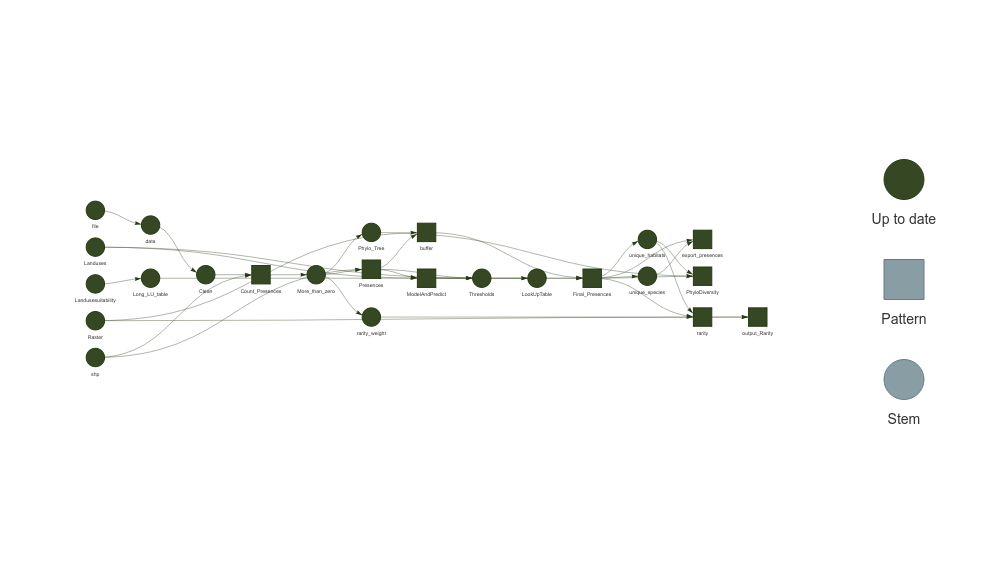
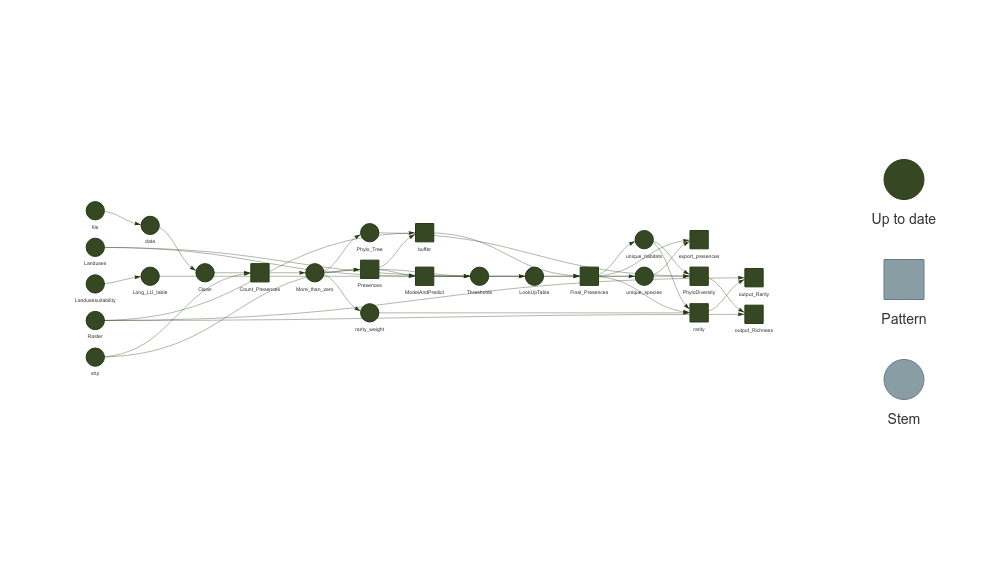
Export richness is ready

Changed region(s): [[0.124, 0.3673, 0.775, 0.5816], [0.124, 0.5816, 0.155, 0.6122], [0.124, 0.3673, 0.155, 0.398]]

diff --git a/README.md b/README.md
@@ -559,12 +559,12 @@ knitr::kable(Habitats[1:9,], caption = "Predicted habitat suitability scores acr
 |:--------------|----------:|:---------------------|
 | OpenDryRich   | 1.0000000 | Anthyllis vulneraria |
 | OpenDryPoor   | 1.0000000 | Anthyllis vulneraria |
-| ForestWetRich | 0.7027417 | Anthyllis vulneraria |
-| OpenWetPoor   | 0.7027417 | Anthyllis vulneraria |
-| OpenWetRich   | 0.7027417 | Anthyllis vulneraria |
-| Exclude       | 0.5133834 | Anthyllis vulneraria |
-| ForestDryRich | 0.3359056 | Anthyllis vulneraria |
-| ForestDryPoor | 0.2320890 | Anthyllis vulneraria |
+| ForestWetRich | 0.6838430 | Anthyllis vulneraria |
+| OpenWetRich   | 0.6838430 | Anthyllis vulneraria |
+| OpenWetPoor   | 0.6838430 | Anthyllis vulneraria |
+| Exclude       | 0.5108840 | Anthyllis vulneraria |
+| ForestDryRich | 0.3207105 | Anthyllis vulneraria |
+| ForestDryPoor | 0.2241332 | Anthyllis vulneraria |
 | Exclude       | 0.6335459 | Genista tinctoria    |
 
 <span id="tab:tablespeciespred"></span>Table 4.7: Predicted habitat
@@ -620,12 +620,12 @@ Table <a href="#tab:thresholdtables">4.8</a>.
 
 | species              | Thres_99 | Thres_95 | Thres_90 |
 |:---------------------|---------:|---------:|---------:|
-| Anthyllis vulneraria |    0.513 |    0.513 |    0.513 |
+| Anthyllis vulneraria |    0.511 |    0.511 |    0.511 |
 | Genista tinctoria    |    0.634 |    0.634 |    0.634 |
 | Lathyrus japonicus   |    0.407 |    0.407 |    0.407 |
 | Lathyrus latifolius  |    0.634 |    0.634 |    0.634 |
-| Vicia sativa         |    0.404 |    0.404 |    0.404 |
-| Vicia sepium         |    0.290 |    0.290 |    0.290 |
+| Vicia sativa         |    0.405 |    0.405 |    0.405 |
+| Vicia sepium         |    0.294 |    0.294 |    0.294 |
 | Vicia villosa        |    0.633 |    0.633 |    0.633 |
 
 <span id="tab:thresholdtables"></span>Table 4.8: Threshold based on
@@ -652,8 +652,8 @@ are not.
 | Anthyllis vulneraria | OpenDryRich   |    1 |
 | Anthyllis vulneraria | OpenDryPoor   |    1 |
 | Anthyllis vulneraria | ForestWetRich |    1 |
-| Anthyllis vulneraria | OpenWetPoor   |    1 |
 | Anthyllis vulneraria | OpenWetRich   |    1 |
+| Anthyllis vulneraria | OpenWetPoor   |    1 |
 | Lathyrus japonicus   | OpenDryPoor   |    1 |
 | Vicia sativa         | OpenDryPoor   |    1 |
 | Vicia sativa         | OpenDryRich   |    1 |
@@ -664,8 +664,8 @@ are not.
 | Vicia sepium         | ForestWetRich |    1 |
 | Vicia sepium         | ForestDryRich |    1 |
 | Vicia sepium         | OpenDryPoor   |    1 |
-| Vicia sepium         | OpenWetRich   |    1 |
 | Vicia sepium         | OpenWetPoor   |    1 |
+| Vicia sepium         | OpenWetRich   |    1 |
 | Vicia sepium         | OpenDryRich   |    1 |
 
 <span id="tab:lookuptab"></span>Table 4.9: dummy variable that shows
@@ -802,160 +802,173 @@ run_workflow(
   rasterLU = Raster,
   LanduseSuitability = HabSut
 )
-#> ▶ dispatched target Raster
-#> ▶ dispatched target Landuses
-#> ● completed target Landuses [7.174 seconds]
 #> ▶ dispatched target shp
-#> ● completed target shp [0 seconds]
+#> ▶ dispatched target Raster
+#> ● completed target shp [8.94 seconds]
+#> ▶ dispatched target Landuses
+#> ● completed target Landuses [0 seconds]
 #> ▶ dispatched target file
 #> ● completed target file [0 seconds]
 #> ▶ dispatched target data
-#> ● completed target Raster [7.395 seconds]
+#> ● completed target Raster [8.884 seconds]
 #> ▶ dispatched target Landusesuitability
 #> ● completed target Landusesuitability [0 seconds]
 #> ▶ dispatched target Long_LU_table
-#> ● completed target Long_LU_table [0.154 seconds]
-#> ● completed target data [0.604 seconds]
+#> ● completed target Long_LU_table [0.113 seconds]
+#> ● completed target data [0.665 seconds]
 #> ▶ dispatched target Clean
-#> ● completed target Clean [1.339 seconds]
+#> ● completed target Clean [1.531 seconds]
 #> ▶ dispatched branch Count_Presences_33538e94b3809372
 #> ▶ dispatched branch Count_Presences_52d72a5ad405e933
-#> ● completed branch Count_Presences_33538e94b3809372 [0.155 seconds]
+#> ● completed branch Count_Presences_33538e94b3809372 [0.229 seconds]
 #> ▶ dispatched branch Count_Presences_e70f77d9439a4770
-#> ● completed branch Count_Presences_e70f77d9439a4770 [0.117 seconds]
+#> ● completed branch Count_Presences_e70f77d9439a4770 [0.855 seconds]
 #> ▶ dispatched branch Count_Presences_dea4ef8633a449a1
-#> ● completed branch Count_Presences_52d72a5ad405e933 [0.341 seconds]
+#> ● completed branch Count_Presences_52d72a5ad405e933 [1.168 seconds]
 #> ▶ dispatched branch Count_Presences_69210fc440d13855
+#> ● completed branch Count_Presences_69210fc440d13855 [0.34 seconds]
 #> ▶ dispatched branch Count_Presences_a61be030e01ebaf5
-#> ● completed branch Count_Presences_dea4ef8633a449a1 [0.057 seconds]
-#> ● completed branch Count_Presences_a61be030e01ebaf5 [0.038 seconds]
+#> ● completed branch Count_Presences_dea4ef8633a449a1 [0.398 seconds]
 #> ▶ dispatched branch Count_Presences_974105e269324d3e
-#> ● completed branch Count_Presences_974105e269324d3e [0.04 seconds]
+#> ● completed branch Count_Presences_974105e269324d3e [0.121 seconds]
 #> ▶ dispatched branch Count_Presences_37d1f8d5f74d852c
-#> ● completed branch Count_Presences_69210fc440d13855 [0.142 seconds]
-#> ● completed branch Count_Presences_37d1f8d5f74d852c [0.036 seconds]
+#> ● completed branch Count_Presences_a61be030e01ebaf5 [0.14 seconds]
+#> ● completed branch Count_Presences_37d1f8d5f74d852c [0.623 seconds]
 #> ● completed pattern Count_Presences
 #> ▶ dispatched target More_than_zero
 #> ● completed target More_than_zero [0.002 seconds]
 #> ▶ dispatched branch Presences_c112b37cd15959d6
 #> ▶ dispatched branch Presences_af64bac105a08467
-#> ● completed branch Presences_af64bac105a08467 [0.508 seconds]
-#> ▶ dispatched branch buffer_0e19b8cb545404d2
-#> ● completed branch buffer_0e19b8cb545404d2 [0.138 seconds]
-#> ▶ dispatched branch Presences_daf8d6353bc80f0c
-#> ● completed branch Presences_c112b37cd15959d6 [0.879 seconds]
-#> ▶ dispatched branch buffer_626a53b08dfe709d
-#> ● completed branch buffer_626a53b08dfe709d [0.281 seconds]
-#> ▶ dispatched branch Presences_310adeccf6b44725
-#> ● completed branch Presences_daf8d6353bc80f0c [0.91 seconds]
-#> ▶ dispatched branch buffer_edb09c8ec5c9a988
-#> ● completed branch Presences_310adeccf6b44725 [0.449 seconds]
-#> ▶ dispatched branch buffer_b226446ac3154351
-#> ● completed branch buffer_b226446ac3154351 [0.219 seconds]
-#> ▶ dispatched branch Presences_e65f4227e8299cc4
-#> ● completed branch buffer_edb09c8ec5c9a988 [0.397 seconds]
-#> ▶ dispatched branch Presences_d4b9dc68293bd5b2
-#> ● completed branch Presences_e65f4227e8299cc4 [0.689 seconds]
-#> ▶ dispatched branch buffer_0a8436ee3d4f2644
-#> ● completed branch Presences_d4b9dc68293bd5b2 [0.552 seconds]
-#> ▶ dispatched branch buffer_cae8301e59fc4e01
-#> ● completed branch buffer_0a8436ee3d4f2644 [0.06 seconds]
-#> ▶ dispatched branch Presences_88937156c1302a12
-#> ● completed branch buffer_cae8301e59fc4e01 [0.059 seconds]
-#> ▶ dispatched target rarity_weight
-#> ● completed target rarity_weight [0.003 seconds]
-#> ▶ dispatched target Phylo_Tree
-#> ● completed branch Presences_88937156c1302a12 [0.327 seconds]
-#> ● completed pattern Presences
-#> ▶ dispatched branch buffer_a0190cbfdf5f6f1f
-#> ● completed branch buffer_a0190cbfdf5f6f1f [0.036 seconds]
-#> ● completed pattern buffer
+#> ● completed branch Presences_af64bac105a08467 [0.905 seconds]
 #> ▶ dispatched branch ModelAndPredict_0e19b8cb545404d2
-#> ● completed branch ModelAndPredict_0e19b8cb545404d2 [1.095 seconds]
+#> ● completed branch Presences_c112b37cd15959d6 [1.935 seconds]
 #> ▶ dispatched branch ModelAndPredict_626a53b08dfe709d
-#> ● completed branch ModelAndPredict_626a53b08dfe709d [18.48 seconds]
+#> ● completed branch ModelAndPredict_0e19b8cb545404d2 [1.476 seconds]
+#> ▶ dispatched branch Presences_daf8d6353bc80f0c
+#> ● completed branch Presences_daf8d6353bc80f0c [2.269 seconds]
 #> ▶ dispatched branch ModelAndPredict_edb09c8ec5c9a988
-#> ● completed branch ModelAndPredict_edb09c8ec5c9a988 [22.185 seconds]
+#> ● completed branch ModelAndPredict_626a53b08dfe709d [20.212 seconds]
+#> ▶ dispatched branch Presences_310adeccf6b44725
+#> ● completed branch Presences_310adeccf6b44725 [1.195 seconds]
 #> ▶ dispatched branch ModelAndPredict_b226446ac3154351
-#> ● completed target Phylo_Tree [43.206 seconds]
-#> ▶ dispatched branch ModelAndPredict_0a8436ee3d4f2644
-#> ● completed branch ModelAndPredict_b226446ac3154351 [6.165 seconds]
+#> ● completed branch ModelAndPredict_b226446ac3154351 [6.505 seconds]
+#> ▶ dispatched branch Presences_e65f4227e8299cc4
+#> ● completed branch ModelAndPredict_edb09c8ec5c9a988 [25.631 seconds]
+#> ▶ dispatched branch Presences_d4b9dc68293bd5b2
+#> ● completed branch Presences_d4b9dc68293bd5b2 [0.869 seconds]
 #> ▶ dispatched branch ModelAndPredict_cae8301e59fc4e01
-#> ● completed branch ModelAndPredict_cae8301e59fc4e01 [0.663 seconds]
+#> ● completed branch Presences_e65f4227e8299cc4 [1.397 seconds]
+#> ▶ dispatched branch ModelAndPredict_0a8436ee3d4f2644
+#> ● completed branch ModelAndPredict_cae8301e59fc4e01 [0.936 seconds]
+#> ▶ dispatched branch Presences_88937156c1302a12
+#> ● completed branch Presences_88937156c1302a12 [1.18 seconds]
+#> ● completed pattern Presences
 #> ▶ dispatched branch ModelAndPredict_a0190cbfdf5f6f1f
-#> ● completed branch ModelAndPredict_a0190cbfdf5f6f1f [0.289 seconds]
-#> ● completed branch ModelAndPredict_0a8436ee3d4f2644 [11.929 seconds]
+#> ● completed branch ModelAndPredict_a0190cbfdf5f6f1f [0.392 seconds]
+#> ▶ dispatched target Phylo_Tree
+#> ● completed branch ModelAndPredict_0a8436ee3d4f2644 [11.237 seconds]
 #> ● completed pattern ModelAndPredict
 #> ▶ dispatched target Thresholds
-#> ● completed target Thresholds [0.691 seconds]
+#> ● completed target Thresholds [0.764 seconds]
 #> ▶ dispatched target LookUpTable
-#> ● completed target LookUpTable [0.009 seconds]
-#> ▶ dispatched branch Final_Presences_ebf0f62f14548a82
+#> ● completed target LookUpTable [0.013 seconds]
+#> ▶ dispatched target rarity_weight
+#> ● completed target rarity_weight [0.004 seconds]
+#> ▶ dispatched branch buffer_0e19b8cb545404d2
+#> ● completed branch buffer_0e19b8cb545404d2 [0.152 seconds]
 #> ▶ dispatched branch Final_Presences_344cc771c9264c2e
-#> ● completed branch Final_Presences_ebf0f62f14548a82 [0.021 seconds]
+#> ● completed branch Final_Presences_344cc771c9264c2e [0.156 seconds]
+#> ▶ dispatched branch buffer_626a53b08dfe709d
+#> ● completed branch buffer_626a53b08dfe709d [0.23 seconds]
+#> ▶ dispatched branch Final_Presences_ebf0f62f14548a82
+#> ● completed branch Final_Presences_ebf0f62f14548a82 [0.293 seconds]
+#> ▶ dispatched branch buffer_edb09c8ec5c9a988
+#> ● completed branch buffer_edb09c8ec5c9a988 [0.146 seconds]
 #> ▶ dispatched branch Final_Presences_6f1885e07badc469
-#> ● completed branch Final_Presences_344cc771c9264c2e [0.041 seconds]
+#> ● completed branch Final_Presences_6f1885e07badc469 [0.077 seconds]
+#> ▶ dispatched branch buffer_b226446ac3154351
+#> ● completed branch buffer_b226446ac3154351 [0.058 seconds]
 #> ▶ dispatched branch Final_Presences_35ecd9eff835718c
-#> ● completed branch Final_Presences_35ecd9eff835718c [0.03 seconds]
-#> ▶ dispatched branch Final_Presences_af0c167a6a4b9998
-#> ● completed branch Final_Presences_6f1885e07badc469 [0.035 seconds]
+#> ● completed branch Final_Presences_35ecd9eff835718c [0.076 seconds]
+#> ▶ dispatched branch buffer_cae8301e59fc4e01
+#> ● completed branch buffer_cae8301e59fc4e01 [0.072 seconds]
 #> ▶ dispatched branch Final_Presences_5224d468624d4ebb
-#> ● completed branch Final_Presences_5224d468624d4ebb [0.049 seconds]
+#> ● completed branch Final_Presences_5224d468624d4ebb [0.031 seconds]
+#> ▶ dispatched branch buffer_0a8436ee3d4f2644
+#> ● completed branch buffer_0a8436ee3d4f2644 [0.086 seconds]
+#> ▶ dispatched branch Final_Presences_af0c167a6a4b9998
+#> ● completed branch Final_Presences_af0c167a6a4b9998 [0.162 seconds]
+#> ▶ dispatched branch buffer_a0190cbfdf5f6f1f
+#> ● completed branch buffer_a0190cbfdf5f6f1f [0.06 seconds]
+#> ● completed pattern buffer
 #> ▶ dispatched branch Final_Presences_d203d619aa280fd1
-#> ● completed branch Final_Presences_d203d619aa280fd1 [0.07 seconds]
-#> ● completed branch Final_Presences_af0c167a6a4b9998 [0.188 seconds]
+#> ● completed branch Final_Presences_d203d619aa280fd1 [0.039 seconds]
 #> ● completed pattern Final_Presences
 #> ▶ dispatched target unique_habitats
-#> ▶ dispatched target unique_species
-#> ● completed target unique_habitats [0.001 seconds]
-#> ● completed target unique_species [0.001 seconds]
+#> ● completed target unique_habitats [0 seconds]
 #> ▶ dispatched branch rarity_405e1cf7d36edc08
-#> ▶ dispatched branch rarity_77d9a26761e4a007
-#> ● completed branch rarity_405e1cf7d36edc08 [0.24 seconds]
+#> ● completed branch rarity_405e1cf7d36edc08 [0.209 seconds]
 #> ▶ dispatched branch output_Rarity_2cf706eb0499c812
-#> ● completed branch rarity_77d9a26761e4a007 [0.238 seconds]
-#> ▶ dispatched branch output_Rarity_261466b6f238f521
-#> ● completed branch output_Rarity_261466b6f238f521 [0.081 seconds]
-#> ▶ dispatched branch rarity_47ea97700de70215
-#> ● completed branch output_Rarity_2cf706eb0499c812 [0.107 seconds]
-#> ▶ dispatched branch rarity_f4a6e9a8f4837219
-#> ● completed branch rarity_47ea97700de70215 [0.277 seconds]
-#> ▶ dispatched branch output_Rarity_c2db253b33fcf9d9
-#> ● completed branch rarity_f4a6e9a8f4837219 [0.354 seconds]
-#> ▶ dispatched branch output_Rarity_c1388be691e0be60
-#> ● completed branch output_Rarity_c1388be691e0be60 [0.353 seconds]
-#> ▶ dispatched branch rarity_bee04486eb86e311
-#> ● completed branch output_Rarity_c2db253b33fcf9d9 [0.45 seconds]
-#> ▶ dispatched branch rarity_fcb1676d3b2f6824
-#> ● completed branch rarity_bee04486eb86e311 [0.032 seconds]
-#> ▶ dispatched branch output_Rarity_7d8e043127d47e71
-#> ● completed branch output_Rarity_7d8e043127d47e71 [0.053 seconds]
+#> ● completed branch output_Rarity_2cf706eb0499c812 [0.153 seconds]
+#> ▶ dispatched target unique_species
+#> ● completed target unique_species [0.002 seconds]
 #> ▶ dispatched branch export_presences_b7bf78e1c1a430c9
-#> ● completed branch rarity_fcb1676d3b2f6824 [0.095 seconds]
+#> ● completed branch export_presences_b7bf78e1c1a430c9 [4.809 seconds]
+#> ▶ dispatched branch rarity_77d9a26761e4a007
+#> ● completed branch rarity_77d9a26761e4a007 [0.669 seconds]
+#> ▶ dispatched branch output_Rarity_261466b6f238f521
+#> ● completed branch output_Rarity_261466b6f238f521 [1.779 seconds]
+#> ▶ dispatched branch rarity_47ea97700de70215
+#> ● completed branch rarity_47ea97700de70215 [0.365 seconds]
+#> ▶ dispatched branch output_Rarity_c2db253b33fcf9d9
+#> ● completed branch output_Rarity_c2db253b33fcf9d9 [0.236 seconds]
+#> ▶ dispatched branch rarity_f4a6e9a8f4837219
+#> ● completed branch rarity_f4a6e9a8f4837219 [0.568 seconds]
+#> ▶ dispatched branch output_Rarity_c1388be691e0be60
+#> ● completed branch output_Rarity_c1388be691e0be60 [0.159 seconds]
+#> ▶ dispatched branch rarity_bee04486eb86e311
+#> ● completed branch rarity_bee04486eb86e311 [0.321 seconds]
+#> ▶ dispatched branch output_Rarity_7d8e043127d47e71
+#> ● completed branch output_Rarity_7d8e043127d47e71 [0.146 seconds]
+#> ▶ dispatched branch rarity_fcb1676d3b2f6824
+#> ● completed branch rarity_fcb1676d3b2f6824 [0.518 seconds]
 #> ● completed pattern rarity
 #> ▶ dispatched branch output_Rarity_c8f99e24ce7afc52
-#> ● completed branch output_Rarity_c8f99e24ce7afc52 [0.083 seconds]
+#> ● completed branch output_Rarity_c8f99e24ce7afc52 [0.164 seconds]
 #> ● completed pattern output_Rarity
 #> ▶ dispatched branch export_presences_9cb7df6f909cc656
-#> ● completed branch export_presences_b7bf78e1c1a430c9 [0.266 seconds]
+#> ● completed branch export_presences_9cb7df6f909cc656 [1.54 seconds]
 #> ▶ dispatched branch export_presences_e0501a6e2e4e8857
-#> ● completed branch export_presences_e0501a6e2e4e8857 [0.15 seconds]
-#> ▶ dispatched branch PhyloDiversity_405e1cf7d36edc08
-#> ● completed branch export_presences_9cb7df6f909cc656 [0.441 seconds]
+#> ● completed branch export_presences_e0501a6e2e4e8857 [0.367 seconds]
 #> ● completed pattern export_presences
+#> ● completed target Phylo_Tree [54.599 seconds]
+#> ▶ dispatched branch PhyloDiversity_405e1cf7d36edc08
 #> ▶ dispatched branch PhyloDiversity_77d9a26761e4a007
-#> ● completed branch PhyloDiversity_405e1cf7d36edc08 [0.402 seconds]
+#> ● completed branch PhyloDiversity_405e1cf7d36edc08 [0.634 seconds]
+#> ▶ dispatched branch output_Richness_0fed6773594c8b8e
+#> ● completed branch PhyloDiversity_77d9a26761e4a007 [0.716 seconds]
+#> ▶ dispatched branch output_Richness_9080f2064a157266
+#> ● completed branch output_Richness_0fed6773594c8b8e [0.116 seconds]
 #> ▶ dispatched branch PhyloDiversity_47ea97700de70215
-#> ● completed branch PhyloDiversity_47ea97700de70215 [0.049 seconds]
+#> ● completed branch output_Richness_9080f2064a157266 [0.113 seconds]
 #> ▶ dispatched branch PhyloDiversity_f4a6e9a8f4837219
-#> ● completed branch PhyloDiversity_77d9a26761e4a007 [0.409 seconds]
+#> ● completed branch PhyloDiversity_47ea97700de70215 [0.068 seconds]
+#> ▶ dispatched branch output_Richness_5144605bf3a4ac38
+#> ● completed branch PhyloDiversity_f4a6e9a8f4837219 [0.72 seconds]
+#> ▶ dispatched branch output_Richness_d34599733447ab6e
+#> ● completed branch output_Richness_5144605bf3a4ac38 [0.581 seconds]
 #> ▶ dispatched branch PhyloDiversity_bee04486eb86e311
-#> ● completed branch PhyloDiversity_bee04486eb86e311 [0.109 seconds]
+#> ● completed branch output_Richness_d34599733447ab6e [0.065 seconds]
 #> ▶ dispatched branch PhyloDiversity_fcb1676d3b2f6824
-#> ● completed branch PhyloDiversity_f4a6e9a8f4837219 [0.478 seconds]
-#> ● completed branch PhyloDiversity_fcb1676d3b2f6824 [0.529 seconds]
+#> ● completed branch PhyloDiversity_bee04486eb86e311 [0.094 seconds]
+#> ▶ dispatched branch output_Richness_c0ee68bb087b85bd
+#> ● completed branch PhyloDiversity_fcb1676d3b2f6824 [0.599 seconds]
 #> ● completed pattern PhyloDiversity
-#> ▶ ended pipeline [1.259 minutes]
+#> ▶ dispatched branch output_Richness_32f01d33f95b1de0
+#> ● completed branch output_Richness_c0ee68bb087b85bd [0.087 seconds]
+#> ● completed branch output_Richness_32f01d33f95b1de0 [0.09 seconds]
+#> ● completed pattern output_Richness
+#> ▶ ended pipeline [2.305 minutes]
 #> Warning message:
 #> 10 targets produced warnings. Run targets::tar_meta(fields = warnings, complete_only = TRUE) for the messages.
 ```
@@ -1025,6 +1038,24 @@ This automated approach allows you to streamline your analysis and
 ensures that all steps are consistently applied to your data. It also
 makes it easier to rerun the workflow with different parameters or
 datasets.
+
+The files generated are
+
+``` r
+list.files(path = "Results/", recursive = T)
+#>  [1] "Rarity/Rarity_ForestDryRich.tfw"     "Rarity/Rarity_ForestDryRich.tif"    
+#>  [3] "Rarity/Rarity_ForestWetRich.tfw"     "Rarity/Rarity_ForestWetRich.tif"    
+#>  [5] "Rarity/Rarity_OpenDryPoor.tfw"       "Rarity/Rarity_OpenDryPoor.tif"      
+#>  [7] "Rarity/Rarity_OpenDryRich.tfw"       "Rarity/Rarity_OpenDryRich.tif"      
+#>  [9] "Rarity/Rarity_OpenWetPoor.tfw"       "Rarity/Rarity_OpenWetPoor.tif"      
+#> [11] "Rarity/Rarity_OpenWetRich.tfw"       "Rarity/Rarity_OpenWetRich.tif"      
+#> [13] "Richness/Richness_ForestDryRich.tfw" "Richness/Richness_ForestDryRich.tif"
+#> [15] "Richness/Richness_ForestWetRich.tfw" "Richness/Richness_ForestWetRich.tif"
+#> [17] "Richness/Richness_OpenDryPoor.tfw"   "Richness/Richness_OpenDryPoor.tif"  
+#> [19] "Richness/Richness_OpenDryRich.tfw"   "Richness/Richness_OpenDryRich.tif"  
+#> [21] "Richness/Richness_OpenWetPoor.tfw"   "Richness/Richness_OpenWetPoor.tif"  
+#> [23] "Richness/Richness_OpenWetRich.tfw"   "Richness/Richness_OpenWetRich.tif"
+```
 
 # 6 References
 
